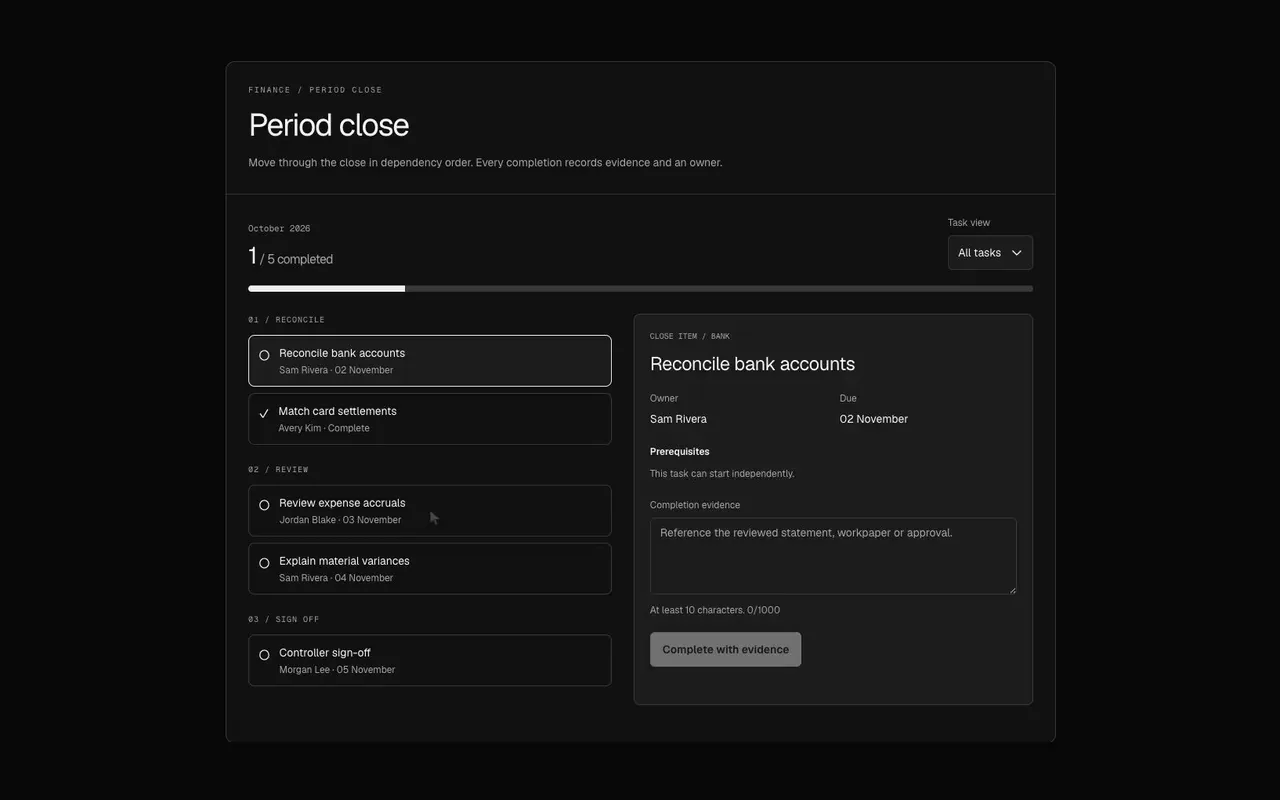
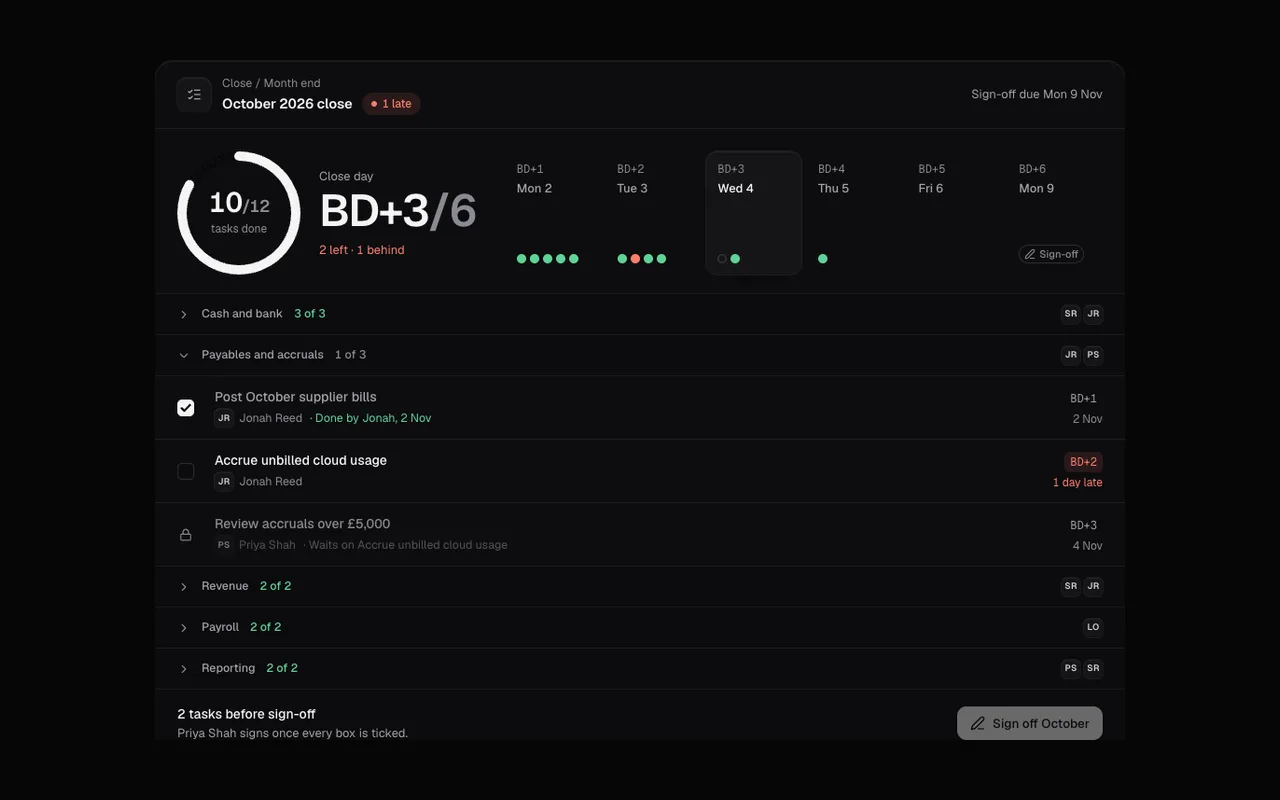
chore(previews): finish stale-poster refresh for finance workflows

diff --git a/docs/review/HANDOFF_TASKS.md b/docs/review/HANDOFF_TASKS.md
@@ -58,6 +58,8 @@ and how to know it's done. Pick any of them up independently. Background, briefs
 
 - Task 2: the four remaining SaaS posters are refreshed and visually reviewed at all three check widths. Access Requests visibly switches to light and now exposes sensitivity dots with valid image semantics; both-theme accessibility and its workflow regression pass. Audit Trail’s bars grow from their baseline. The two finance posters remain to be committed.
 
+- Task 2 is complete: Expense Review and Close Checklist posters are refreshed and visually reviewed, together with settled 1440/768/390 captures and all control flips. Every poster listed in this handoff is now current.
+
 ## Ground rules (read first)
 
 - Two repos. Public: `richawo/Design-components-for-AI-agents` (this one). Pro: `richawo/Design-for-AI`, private, cloned
@@ -128,17 +130,12 @@ Slugs:
 `social-proof-case-ledger`, `text-number-odometer`, `text-optical-weight`, `text-outline-fill`
 `text-path-typesetter`, `finance-budget-variance`, `finance-cashflow-dashboard`, `fashion-preorder-planner`, `fashion-collection-line-plan`, `fashion-merchandising-dashboard`, `fashion-size-guide`
 
-## 2. Retake 2 stale posters
+## 2. Retake stale posters (complete)
 
-These posters still show the previous UI because the server was overloaded:
-`finance-expense-review`, `finance-close-checklist`.
-
-`node scripts/screenshot.mjs <slug> --base=http://localhost:3100`, then open the webp and check it isn't blank or
-mid-entrance. While there, run `check-component` on each and confirm two things left unverified:
-- `saas-access-requests`: the theme → light control flip was reported as changing nothing (probably a reload during the
-  check). Confirm it, fix if real.
-- `saas-audit-trail`: the histogram bars' transform origin was changed to `originY: 1` at the last minute and never
-  seen rendered. Confirm the bars draw up from the baseline.
+All listed posters are refreshed and visually reviewed, with responsive captures at 1440/768/390 and successful
+control flips. Access Requests visibly changes to light; its labelled sensitivity dots pass both-theme accessibility.
+Audit Trail’s histogram draws upward from its baseline. The six remaining captures used exact-source fixtures while
+application-page loading work was in flight. Actual Next routing and the full application suite remain in task 4.
 
 ## 3. Fix component bugs found by the new browser probes
 

diff --git a/docs/review/STATUS.md b/docs/review/STATUS.md
@@ -145,8 +145,8 @@ needs re-recording, whether its poster is current, and the state of its browser 
 | --- | --- | --- | --- |
 | `finance-budget-variance` | new | current | rewritten, passes against Next; dark/light accessibility and responsive/state captures pass |
 | `finance-cashflow-dashboard` | new | current | rewritten, passes on Next; accessibility, responsive/state/entrance and selected-week list geometry pass |
-| `finance-close-checklist` | new | stale | rewritten, passes |
-| `finance-expense-review` | new | stale | rewritten, passes |
+| `finance-close-checklist` | new | current | rewritten, passes |
+| `finance-expense-review` | new | current | rewritten, passes |
 | `finance-invoice-composer` | new | current | rewritten, passes on suite runner with source fixtures; Next route check pending |
 | `finance-payment-run` | new | current | rewritten, passes on suite runner with source fixtures; Next route check pending |
 | `finance-receivables-aging` | new | current | rewritten, passes on suite runner with source fixtures; Next route check pending |
